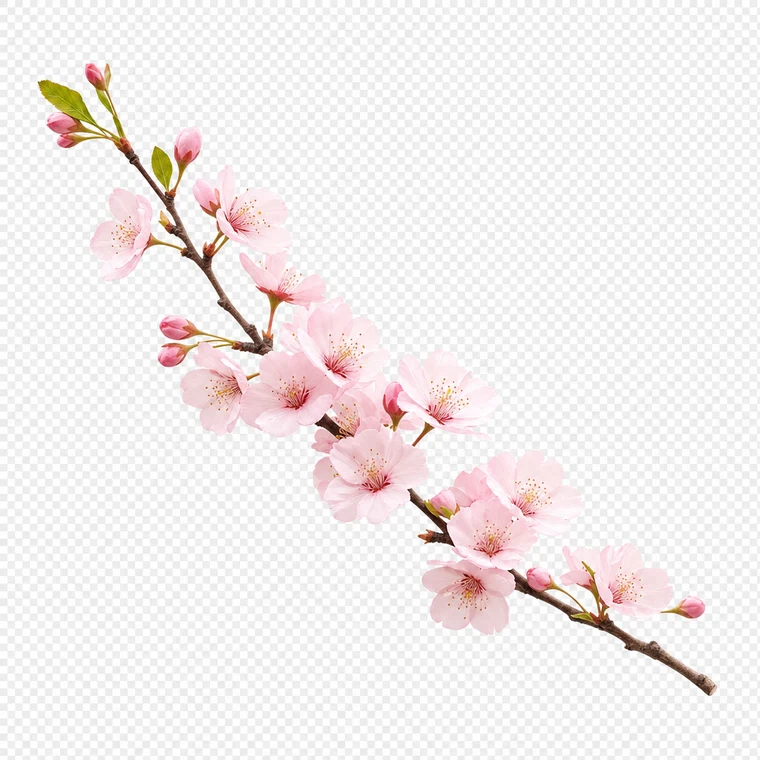
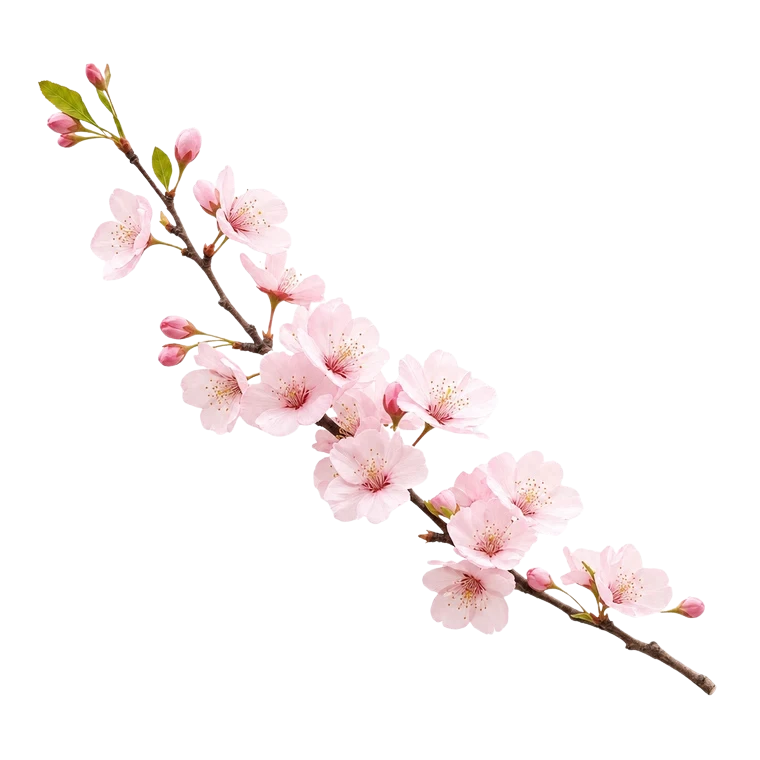
feat(landing): align blog/terms/privacy to elegant warmth design; add steps bg image
- blog/index.html: replace Zen Maru Gothic + olive green with Noto Serif TC + warm orange palette
- terms.html, privacy.html: add Noto Serif/Sans TC, update color tokens to match landing page
- All three: pill nav buttons, orange CTAs, --ink/--muted/--line tokens, warm ivory background
- Add steps-bg.webp (Japanese children's clothing flat lay) as #how section background with overlay
- Update sakura-branch.webp to higher-quality real photo (53KB vs 89KB)

diff --git a/public/blog/index.html b/public/blog/index.html
@@ -12,33 +12,36 @@
 <meta property="og:image" content="https://vovosnap.com/assets/images/blog/hero-blog-index.webp" />
 <link rel="icon" type="image/png" href="/assets/images/logo-3.png" />
 <link rel="canonical" href="https://vovosnap.com/blog/" />
-<link rel="stylesheet" href="https://fonts.googleapis.com/css2?family=Zen+Maru+Gothic:wght@400;700;900&display=swap">
+<link rel="preconnect" href="https://fonts.googleapis.com" />
+<link rel="preconnect" href="https://fonts.gstatic.com" crossorigin />
+<link href="https://fonts.googleapis.com/css2?family=Noto+Sans+TC:wght@400;500;700&family=Noto+Serif+TC:wght@600;700;900&display=swap" rel="stylesheet" />
 <style>
 :root {
-  --brand: #8A9A5B;
-  --brand-light: #EEF1E6;
-  --brand-dark: #768a4a;
-  --accent: #9E5F38;
-  --text: #3D3A35;
-  --text-secondary: #7A756D;
-  --text-muted: #A09A90;
-  --bg: #F9F7F1;
-  --bg-alt: #F3F0E8;
-  --bg-card: #FFFEFA;
-  --border: #E5E0D6;
-  --radius: 12px;
+  --ink: #322d27;
+  --muted: #6f655a;
+  --faint: #a3978a;
+  --bg: #faf6ef;
+  --bg-alt: #f4ecdf;
+  --card: #fffdf9;
+  --line: #e9ddcb;
+  --orange: #e86b2c;
+  --orange-dark: #c9531a;
+  --orange-text: #b54d15;
+  --orange-soft: #fbeadc;
+  --radius: 16px;
+  --shadow: 0 10px 30px rgba(86,62,36,.08);
 }
 * { margin: 0; padding: 0; box-sizing: border-box; }
-body { font-family: -apple-system, BlinkMacSystemFont, "Segoe UI", Roboto, sans-serif; color: var(--text); background: var(--bg); -webkit-font-smoothing: antialiased; }
+body { font-family: "Noto Sans TC", sans-serif; color: var(--ink); background: var(--bg); -webkit-font-smoothing: antialiased; }
 
-.nav { position: sticky; top: 0; z-index: 100; background: rgba(249,247,241,0.92); backdrop-filter: blur(12px); border-bottom: 1px solid var(--border); }
+.nav { position: sticky; top: 0; z-index: 100; background: rgba(250,246,239,0.92); backdrop-filter: blur(12px); border-bottom: 1px solid var(--line); }
 .nav-inner { max-width: 720px; margin: 0 auto; padding: 12px 20px; display: flex; justify-content: space-between; align-items: center; }
 .nav-actions { display: flex; gap: 8px; align-items: center; }
-.nav-link { font-size: 13px; color: var(--text-secondary); text-decoration: none; padding: 6px 12px; border-radius: 8px; transition: all 0.15s; }
-.nav-link:hover { background: var(--bg-alt); color: var(--text); }
-.btn-sm { display: inline-flex; align-items: center; gap: 6px; padding: 8px 16px; border-radius: 8px; font-size: 13px; font-weight: 600; text-decoration: none; border: none; cursor: pointer; transition: all 0.2s; }
-.btn-fill { background: var(--brand); color: #fff; }
-.btn-fill:hover { background: var(--brand-dark); }
+.nav-link { font-size: 13px; color: var(--muted); text-decoration: none; padding: 6px 14px; border-radius: 999px; transition: all 0.15s; }
+.nav-link:hover { background: var(--bg-alt); color: var(--ink); }
+.btn-sm { display: inline-flex; align-items: center; gap: 6px; padding: 8px 20px; border-radius: 999px; font-size: 13px; font-weight: 600; text-decoration: none; border: none; cursor: pointer; transition: all 0.2s; }
+.btn-fill { background: var(--orange); color: #fff; }
+.btn-fill:hover { background: var(--orange-dark); }
 
 /* ── Blog hero ── */
 .blog-hero { margin: 0 -20px 24px; overflow: hidden; border-radius: 0 0 var(--radius) var(--radius); }
@@ -47,26 +50,26 @@ body { font-family: -apple-system, BlinkMacSystemFont, "Segoe UI", Roboto, sans-
 
 .blog-wrapper { max-width: 720px; margin: 0 auto; padding: 24px 20px 80px; }
 .blog-header { margin-bottom: 24px; }
-.blog-header h1 { font-family: 'Zen Maru Gothic', sans-serif; font-size: 28px; font-weight: 900; margin-bottom: 8px; }
-.blog-header p { font-size: 15px; color: var(--text-secondary); line-height: 1.7; }
+.blog-header h1 { font-family: "Noto Serif TC", serif; font-size: 28px; font-weight: 700; letter-spacing: .06em; margin-bottom: 8px; color: var(--ink); }
+.blog-header p { font-size: 15px; color: var(--muted); line-height: 1.75; }
 
 /* ── Tag filters ── */
 .tag-filters { display: flex; gap: 8px; flex-wrap: wrap; margin-bottom: 24px; }
-.tag-btn { display: inline-block; padding: 6px 14px; border-radius: 20px; font-size: 13px; font-weight: 600; border: 1.5px solid var(--border); background: var(--bg-card); color: var(--text-secondary); cursor: pointer; transition: all 0.15s; }
-.tag-btn:hover { border-color: var(--brand); color: var(--brand); }
-.tag-btn.active { background: var(--brand); color: #fff; border-color: var(--brand); }
+.tag-btn { display: inline-block; padding: 6px 16px; border-radius: 999px; font-size: 13px; font-weight: 600; border: 1.5px solid var(--line); background: var(--card); color: var(--muted); cursor: pointer; transition: all 0.15s; }
+.tag-btn:hover { border-color: var(--orange); color: var(--orange-text); }
+.tag-btn.active { background: var(--orange); color: #fff; border-color: var(--orange); }
 
 /* ── Post cards with thumbnails ── */
-.post-card { background: var(--bg-card); border: 1px solid var(--border); border-radius: var(--radius); margin-bottom: 16px; text-decoration: none; display: block; transition: all 0.2s; overflow: hidden; }
-.post-card:hover { border-color: var(--brand); box-shadow: 0 4px 16px rgba(138,154,91,0.12); transform: translateY(-2px); }
+.post-card { background: var(--card); border: 1px solid var(--line); border-radius: var(--radius); margin-bottom: 16px; text-decoration: none; display: block; transition: all 0.2s; overflow: hidden; box-shadow: var(--shadow); }
+.post-card:hover { border-color: var(--orange); box-shadow: 0 8px 28px rgba(86,62,36,.13); transform: translateY(-2px); }
 .post-card--with-thumb { display: flex; align-items: stretch; }
 .post-card__thumb { flex-shrink: 0; width: 120px; min-height: 120px; overflow: hidden; }
 .post-card__thumb img { width: 100%; height: 100%; object-fit: cover; display: block; }
 .post-card__body { padding: 16px; flex: 1; min-width: 0; display: flex; flex-direction: column; justify-content: center; }
-.post-card .post-tag { display: inline-block; font-size: 11px; font-weight: 700; color: var(--brand); background: var(--brand-light); padding: 3px 10px; border-radius: 6px; margin-bottom: 8px; letter-spacing: 0.5px; align-self: flex-start; }
-.post-card h2 { font-size: 16px; font-weight: 700; color: var(--text); margin-bottom: 6px; line-height: 1.4; display: -webkit-box; -webkit-line-clamp: 2; -webkit-box-orient: vertical; overflow: hidden; }
-.post-card p { font-size: 13px; color: var(--text-secondary); line-height: 1.6; margin-bottom: 6px; display: -webkit-box; -webkit-line-clamp: 2; -webkit-box-orient: vertical; overflow: hidden; }
-.post-card .post-meta { font-size: 11px; color: var(--text-muted); }
+.post-card .post-tag { display: inline-block; font-size: 11px; font-weight: 700; color: var(--orange-text); background: var(--orange-soft); padding: 3px 10px; border-radius: 999px; margin-bottom: 8px; letter-spacing: 0.5px; align-self: flex-start; }
+.post-card h2 { font-family: "Noto Serif TC", serif; font-size: 16px; font-weight: 700; color: var(--ink); margin-bottom: 6px; line-height: 1.45; display: -webkit-box; -webkit-line-clamp: 2; -webkit-box-orient: vertical; overflow: hidden; }
+.post-card p { font-size: 13px; color: var(--muted); line-height: 1.65; margin-bottom: 6px; display: -webkit-box; -webkit-line-clamp: 2; -webkit-box-orient: vertical; overflow: hidden; }
+.post-card .post-meta { font-size: 11px; color: var(--faint); }
 
 @media (max-width: 480px) {
   .post-card__thumb { width: 100px; min-height: 100px; }
@@ -74,9 +77,9 @@ body { font-family: -apple-system, BlinkMacSystemFont, "Segoe UI", Roboto, sans-
   .post-card h2 { font-size: 15px; }
 }
 
-.footer { text-align: center; padding: 24px 20px; font-size: 12px; color: var(--text-muted); border-top: 1px solid var(--border); }
-.footer a { color: var(--text-secondary); text-decoration: none; margin: 0 8px; }
-.footer a:hover { color: var(--brand); }
+.footer { text-align: center; padding: 28px 20px; font-size: 12px; color: var(--faint); border-top: 1px solid var(--line); }
+.footer a { color: var(--faint); text-decoration: none; margin: 0 8px; }
+.footer a:hover { color: var(--orange-text); }
 </style>
 </head>
 

diff --git a/public/terms.html b/public/terms.html
@@ -5,56 +5,61 @@
 <meta name="viewport" content="width=device-width, initial-scale=1">
 <title>vovosnap — 服務條款</title>
 <link rel="icon" type="image/png" href="/assets/images/logo-3.png" />
+<link rel="preconnect" href="https://fonts.googleapis.com" />
+<link rel="preconnect" href="https://fonts.gstatic.com" crossorigin />
+<link href="https://fonts.googleapis.com/css2?family=Noto+Sans+TC:wght@400;500;700&family=Noto+Serif+TC:wght@600;700;900&display=swap" rel="stylesheet" />
 <style>
 :root {
-  --brand: #8A9A5B;
-  --brand-light: #EEF1E6;
-  --brand-dark: #768a4a;
-  --text: #3D3A35;
-  --text-secondary: #7A756D;
-  --text-muted: #A09A90;
-  --bg: #F9F7F1;
-  --bg-alt: #F3F0E8;
-  --bg-card: #FFFEFA;
-  --border: #E5E0D6;
-  --radius: 12px;
+  --ink: #322d27;
+  --muted: #6f655a;
+  --faint: #a3978a;
+  --bg: #faf6ef;
+  --bg-alt: #f4ecdf;
+  --card: #fffdf9;
+  --line: #e9ddcb;
+  --orange: #e86b2c;
+  --orange-dark: #c9531a;
+  --orange-text: #b54d15;
+  --orange-soft: #fbeadc;
+  --radius: 16px;
+  --shadow: 0 10px 30px rgba(86,62,36,.08);
 }
 * { margin: 0; padding: 0; box-sizing: border-box; }
-body { font-family: -apple-system, BlinkMacSystemFont, "Segoe UI", Roboto, sans-serif; color: var(--text); background: var(--bg); -webkit-font-smoothing: antialiased; }
+body { font-family: "Noto Sans TC", sans-serif; color: var(--ink); background: var(--bg); -webkit-font-smoothing: antialiased; line-height: 1.8; }
 
 /* ── Nav ── */
-.nav { position: sticky; top: 0; z-index: 100; background: rgba(249,247,241,0.92); backdrop-filter: blur(12px); border-bottom: 1px solid var(--border); }
+.nav { position: sticky; top: 0; z-index: 100; background: rgba(250,246,239,0.92); backdrop-filter: blur(12px); border-bottom: 1px solid var(--line); }
 .nav-inner { max-width: 960px; margin: 0 auto; padding: 12px 20px; display: flex; justify-content: space-between; align-items: center; }
 .nav-actions { display: flex; gap: 8px; align-items: center; }
-.nav-link { font-size: 13px; color: var(--text-secondary); text-decoration: none; padding: 6px 12px; border-radius: 8px; transition: all 0.15s; }
-.nav-link:hover { background: var(--bg-alt); color: var(--text); }
-.btn-sm { display: inline-flex; align-items: center; gap: 6px; padding: 8px 16px; border-radius: 8px; font-size: 13px; font-weight: 600; text-decoration: none; border: none; cursor: pointer; transition: all 0.2s; }
-.btn-fill { background: var(--brand); color: #fff; }
-.btn-fill:hover { background: var(--brand-dark); }
+.nav-link { font-size: 13px; color: var(--muted); text-decoration: none; padding: 6px 14px; border-radius: 999px; transition: all 0.15s; }
+.nav-link:hover { background: var(--bg-alt); color: var(--ink); }
+.btn-sm { display: inline-flex; align-items: center; gap: 6px; padding: 8px 20px; border-radius: 999px; font-size: 13px; font-weight: 600; text-decoration: none; border: none; cursor: pointer; transition: all 0.2s; }
+.btn-fill { background: var(--orange); color: #fff; }
+.btn-fill:hover { background: var(--orange-dark); }
 
 /* ── Content ── */
 .container { max-width: 720px; margin: 0 auto; padding: 0 20px; }
-.content { padding: 48px 0 80px; }
-.content h1 { font-size: 28px; font-weight: 700; margin-bottom: 8px; color: var(--text); }
-.content .updated { font-size: 13px; color: var(--text-muted); margin-bottom: 32px; }
-.content h2 { font-size: 18px; font-weight: 700; margin-top: 32px; margin-bottom: 12px; color: var(--text); }
-.content h3 { font-size: 16px; font-weight: 700; margin-top: 20px; margin-bottom: 8px; color: var(--text); }
-.content p, .content li { font-size: 15px; color: var(--text-secondary); margin-bottom: 12px; line-height: 1.8; }
+.content { padding: 52px 0 96px; }
+.content h1 { font-family: "Noto Serif TC", serif; font-size: 30px; font-weight: 700; letter-spacing: .06em; margin-bottom: 8px; color: var(--ink); }
+.content .updated { font-size: 13px; color: var(--faint); margin-bottom: 36px; }
+.content h2 { font-family: "Noto Serif TC", serif; font-size: 18px; font-weight: 700; letter-spacing: .04em; margin-top: 36px; margin-bottom: 12px; color: var(--ink); }
+.content h3 { font-family: "Noto Serif TC", serif; font-size: 16px; font-weight: 700; margin-top: 24px; margin-bottom: 8px; color: var(--ink); }
+.content p, .content li { font-size: 15px; color: var(--muted); margin-bottom: 12px; line-height: 1.85; }
 .content ul { padding-left: 20px; }
 .content li { margin-bottom: 6px; }
-.content a { color: var(--brand); text-decoration: none; }
-.content a:hover { color: var(--brand-dark); text-decoration: underline; }
-.content strong { color: var(--text); }
-.content hr { border: none; border-top: 2px solid var(--border); margin: 48px 0; }
-.callout-warning { background: #fef2f2; border: 1px solid #fecaca; border-radius: 8px; padding: 16px; margin: 16px 0; }
+.content a { color: var(--orange-text); text-decoration: none; }
+.content a:hover { color: var(--orange); text-decoration: underline; }
+.content strong { color: var(--ink); }
+.content hr { border: none; border-top: 1px solid var(--line); margin: 52px 0; }
+.callout-warning { background: #fef2f2; border: 1px solid #fecaca; border-radius: var(--radius); padding: 18px 20px; margin: 20px 0; }
 .callout-warning p { margin: 0; color: #991b1b; font-size: 14px; }
-.callout-info { background: var(--bg-alt); border: 1px solid var(--border); border-radius: 8px; padding: 16px; margin: 32px 0; }
-.callout-info p { margin: 0; color: var(--text-muted); font-size: 13px; }
+.callout-info { background: var(--bg-alt); border: 1px solid var(--line); border-radius: var(--radius); padding: 18px 20px; margin: 36px 0; }
+.callout-info p { margin: 0; color: var(--muted); font-size: 13px; }
 
 /* ── Footer ── */
-.footer { padding: 24px 20px; border-top: 1px solid var(--border); text-align: center; font-size: 12px; color: var(--text-muted); }
-.footer a { color: var(--text-muted); text-decoration: none; margin: 0 8px; }
-.footer a:hover { color: var(--brand); }
+.footer { padding: 28px 20px; border-top: 1px solid var(--line); text-align: center; font-size: 12px; color: var(--faint); }
+.footer a { color: var(--faint); text-decoration: none; margin: 0 8px; }
+.footer a:hover { color: var(--orange-text); }
 </style>
 </head>
 <body>

diff --git a/public/privacy.html b/public/privacy.html
@@ -5,52 +5,53 @@
 <meta name="viewport" content="width=device-width, initial-scale=1">
 <title>vovosnap — 隱私權政策</title>
 <link rel="icon" type="image/png" href="/assets/images/logo-3.png" />
+<link rel="preconnect" href="https://fonts.googleapis.com" />
+<link rel="preconnect" href="https://fonts.gstatic.com" crossorigin />
+<link href="https://fonts.googleapis.com/css2?family=Noto+Sans+TC:wght@400;500;700&family=Noto+Serif+TC:wght@600;700;900&display=swap" rel="stylesheet" />
 <style>
 :root {
-  --brand: #8A9A5B;
-  --brand-light: #EEF1E6;
-  --brand-dark: #768a4a;
-  --text: #3D3A35;
-  --text-secondary: #7A756D;
-  --text-muted: #A09A90;
-  --bg: #F9F7F1;
-  --bg-alt: #F3F0E8;
-  --bg-card: #FFFEFA;
-  --border: #E5E0D6;
-  --radius: 12px;
+  --ink: #322d27;
+  --muted: #6f655a;
+  --faint: #a3978a;
+  --bg: #faf6ef;
+  --bg-alt: #f4ecdf;
+  --card: #fffdf9;
+  --line: #e9ddcb;
+  --orange: #e86b2c;
+  --orange-dark: #c9531a;
+  --orange-text: #b54d15;
+  --radius: 16px;
 }
 * { margin: 0; padding: 0; box-sizing: border-box; }
-body { font-family: -apple-system, BlinkMacSystemFont, "Segoe UI", Roboto, sans-serif; color: var(--text); background: var(--bg); -webkit-font-smoothing: antialiased; }
+body { font-family: "Noto Sans TC", sans-serif; color: var(--ink); background: var(--bg); -webkit-font-smoothing: antialiased; line-height: 1.8; }
 
 /* ── Nav ── */
-.nav { position: sticky; top: 0; z-index: 100; background: rgba(249,247,241,0.92); backdrop-filter: blur(12px); border-bottom: 1px solid var(--border); }
+.nav { position: sticky; top: 0; z-index: 100; background: rgba(250,246,239,0.92); backdrop-filter: blur(12px); border-bottom: 1px solid var(--line); }
 .nav-inner { max-width: 960px; margin: 0 auto; padding: 12px 20px; display: flex; justify-content: space-between; align-items: center; }
-.nav-logo { font-size: 20px; font-weight: 800; color: var(--text); text-decoration: none; letter-spacing: -0.5px; }
-.nav-logo span { color: var(--brand); }
 .nav-actions { display: flex; gap: 8px; align-items: center; }
-.nav-link { font-size: 13px; color: var(--text-secondary); text-decoration: none; padding: 6px 12px; border-radius: 8px; transition: all 0.15s; }
-.nav-link:hover { background: var(--bg-alt); color: var(--text); }
-.btn-sm { display: inline-flex; align-items: center; gap: 6px; padding: 8px 16px; border-radius: 8px; font-size: 13px; font-weight: 600; text-decoration: none; border: none; cursor: pointer; transition: all 0.2s; }
-.btn-fill { background: var(--brand); color: #fff; }
-.btn-fill:hover { background: var(--brand-dark); }
+.nav-link { font-size: 13px; color: var(--muted); text-decoration: none; padding: 6px 14px; border-radius: 999px; transition: all 0.15s; }
+.nav-link:hover { background: var(--bg-alt); color: var(--ink); }
+.btn-sm { display: inline-flex; align-items: center; gap: 6px; padding: 8px 20px; border-radius: 999px; font-size: 13px; font-weight: 600; text-decoration: none; border: none; cursor: pointer; transition: all 0.2s; }
+.btn-fill { background: var(--orange); color: #fff; }
+.btn-fill:hover { background: var(--orange-dark); }
 
 /* ── Content ── */
 .container { max-width: 720px; margin: 0 auto; padding: 0 20px; }
-.content { padding: 48px 0 80px; }
-.content h1 { font-size: 28px; font-weight: 700; margin-bottom: 8px; color: var(--text); }
-.content .updated { font-size: 13px; color: var(--text-muted); margin-bottom: 32px; }
-.content h2 { font-size: 18px; font-weight: 700; margin-top: 32px; margin-bottom: 12px; color: var(--text); }
-.content p, .content li { font-size: 15px; color: var(--text-secondary); margin-bottom: 12px; line-height: 1.8; }
+.content { padding: 52px 0 96px; }
+.content h1 { font-family: "Noto Serif TC", serif; font-size: 30px; font-weight: 700; letter-spacing: .06em; margin-bottom: 8px; color: var(--ink); }
+.content .updated { font-size: 13px; color: var(--faint); margin-bottom: 36px; }
+.content h2 { font-family: "Noto Serif TC", serif; font-size: 18px; font-weight: 700; letter-spacing: .04em; margin-top: 36px; margin-bottom: 12px; color: var(--ink); }
+.content p, .content li { font-size: 15px; color: var(--muted); margin-bottom: 12px; line-height: 1.85; }
 .content ul { padding-left: 20px; }
 .content li { margin-bottom: 6px; }
-.content a { color: var(--brand); text-decoration: none; }
-.content a:hover { color: var(--brand-dark); text-decoration: underline; }
-.content strong { color: var(--text); }
+.content a { color: var(--orange-text); text-decoration: none; }
+.content a:hover { color: var(--orange); text-decoration: underline; }
+.content strong { color: var(--ink); }
 
 /* ── Footer ── */
-.footer { padding: 24px 20px; border-top: 1px solid var(--border); text-align: center; font-size: 12px; color: var(--text-muted); }
-.footer a { color: var(--text-muted); text-decoration: none; margin: 0 8px; }
-.footer a:hover { color: var(--brand); }
+.footer { padding: 28px 20px; border-top: 1px solid var(--line); text-align: center; font-size: 12px; color: var(--faint); }
+.footer a { color: var(--faint); text-decoration: none; margin: 0 8px; }
+.footer a:hover { color: var(--orange-text); }
 </style>
 </head>
 <body>

diff --git a/public/index.html b/public/index.html
@@ -197,6 +197,9 @@ section.alt { background: var(--bg-alt); }
   .compare-vs { width: 72px; height: 72px; font-size: 17px; margin: -4px auto; }
 }
 /* ── 四步驟 ──────────────────────────────── */
+#how { background: url('/assets/images/steps-bg.webp') center/cover no-repeat; position: relative; }
+#how::before { content: ""; position: absolute; inset: 0; background: rgba(250,246,239,.82); pointer-events: none; }
+#how .wrap { position: relative; z-index: 1; }
 .steps-grid { display: grid; grid-template-columns: repeat(4, 1fr); gap: 18px; margin-top: 44px; text-align: left; position: relative; }
 .step-card { background: var(--card); border: 1px solid var(--line); border-radius: var(--radius);
              padding: 26px 24px; box-shadow: var(--shadow); position: relative; }
